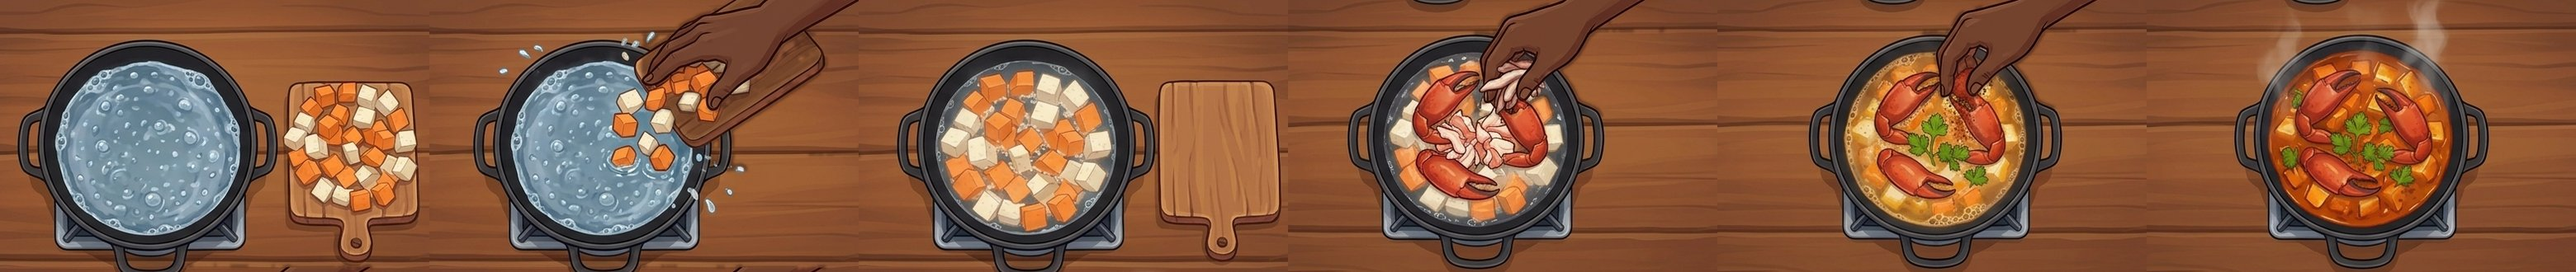
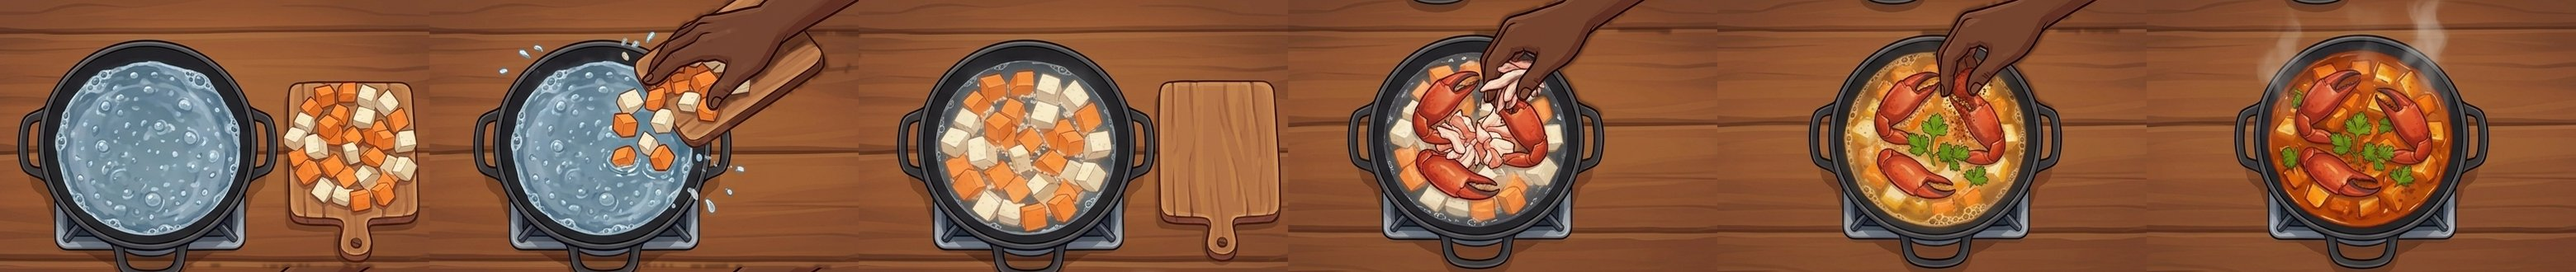
Soupe : planche à découper non recolorée
Claude-Session: https://claude.ai/code/session_014bi368SbjZ4sCSmbjCzFcj

diff --git a/game.js b/game.js
@@ -7484,7 +7484,7 @@ const CK_EASY = { gmangue: [0, 2, 4, 5, 6, 7, 8, 9], gbanane: [0, 2, 4, 5, 6, 7,
 const cookSteps = r => { const l = lvP(), k = Object.keys(RECIPES).find(i => RECIPES[i] === r); return l.easy && CK_EASY[k] ? CK_EASY[k].map(i => r.steps[i]) : r.steps; };
 const lvP = () => { const l = CKLV[(mini.cklv == null ? 0 : mini.cklv)]; return mini.ckdef ? Object.assign({}, l, { tm: Math.max(-4, l.tm - 5), sp: l.sp * 1.35, zw: l.zw * .8, spd: l.spd + .03, up: l.up * .9, fl: Math.max(0, l.fl - .15), defi: 1 }) : l; };   // défi : chrono plus court et jauges plus rapides
 const CK = { el: null, r: null, step: 0, scores: [], raf: 0 };
-const CK_IMG = f => 'assets/cook/' + f + '.jpg';
+const CK_IMG = f => 'assets/cook/' + f + '.jpg' + (f === 'add_s' ? '?v=2' : '');
 /* ----- plats : qualité (étoiles) + demandes secondaires des habitants ----- */
 const DISHES = ['gmangue', 'gbanane'];
 const DNAME = { gmangue: 'du Maïmaïa', gbanane: 'du Maïbuï', tipaiki: 'du Tipa Iki', soupe: 'de la Kaïa Soupa' };

diff --git a/index.html b/index.html
@@ -1142,7 +1142,7 @@
 <script src="mymask.js"></script>
 <script src="sprites.js"></script>
 <script src="art.js"></script>
-<script src="game.js?v=101"></script>
+<script src="game.js?v=102"></script>
 </body>
 </html>
 
